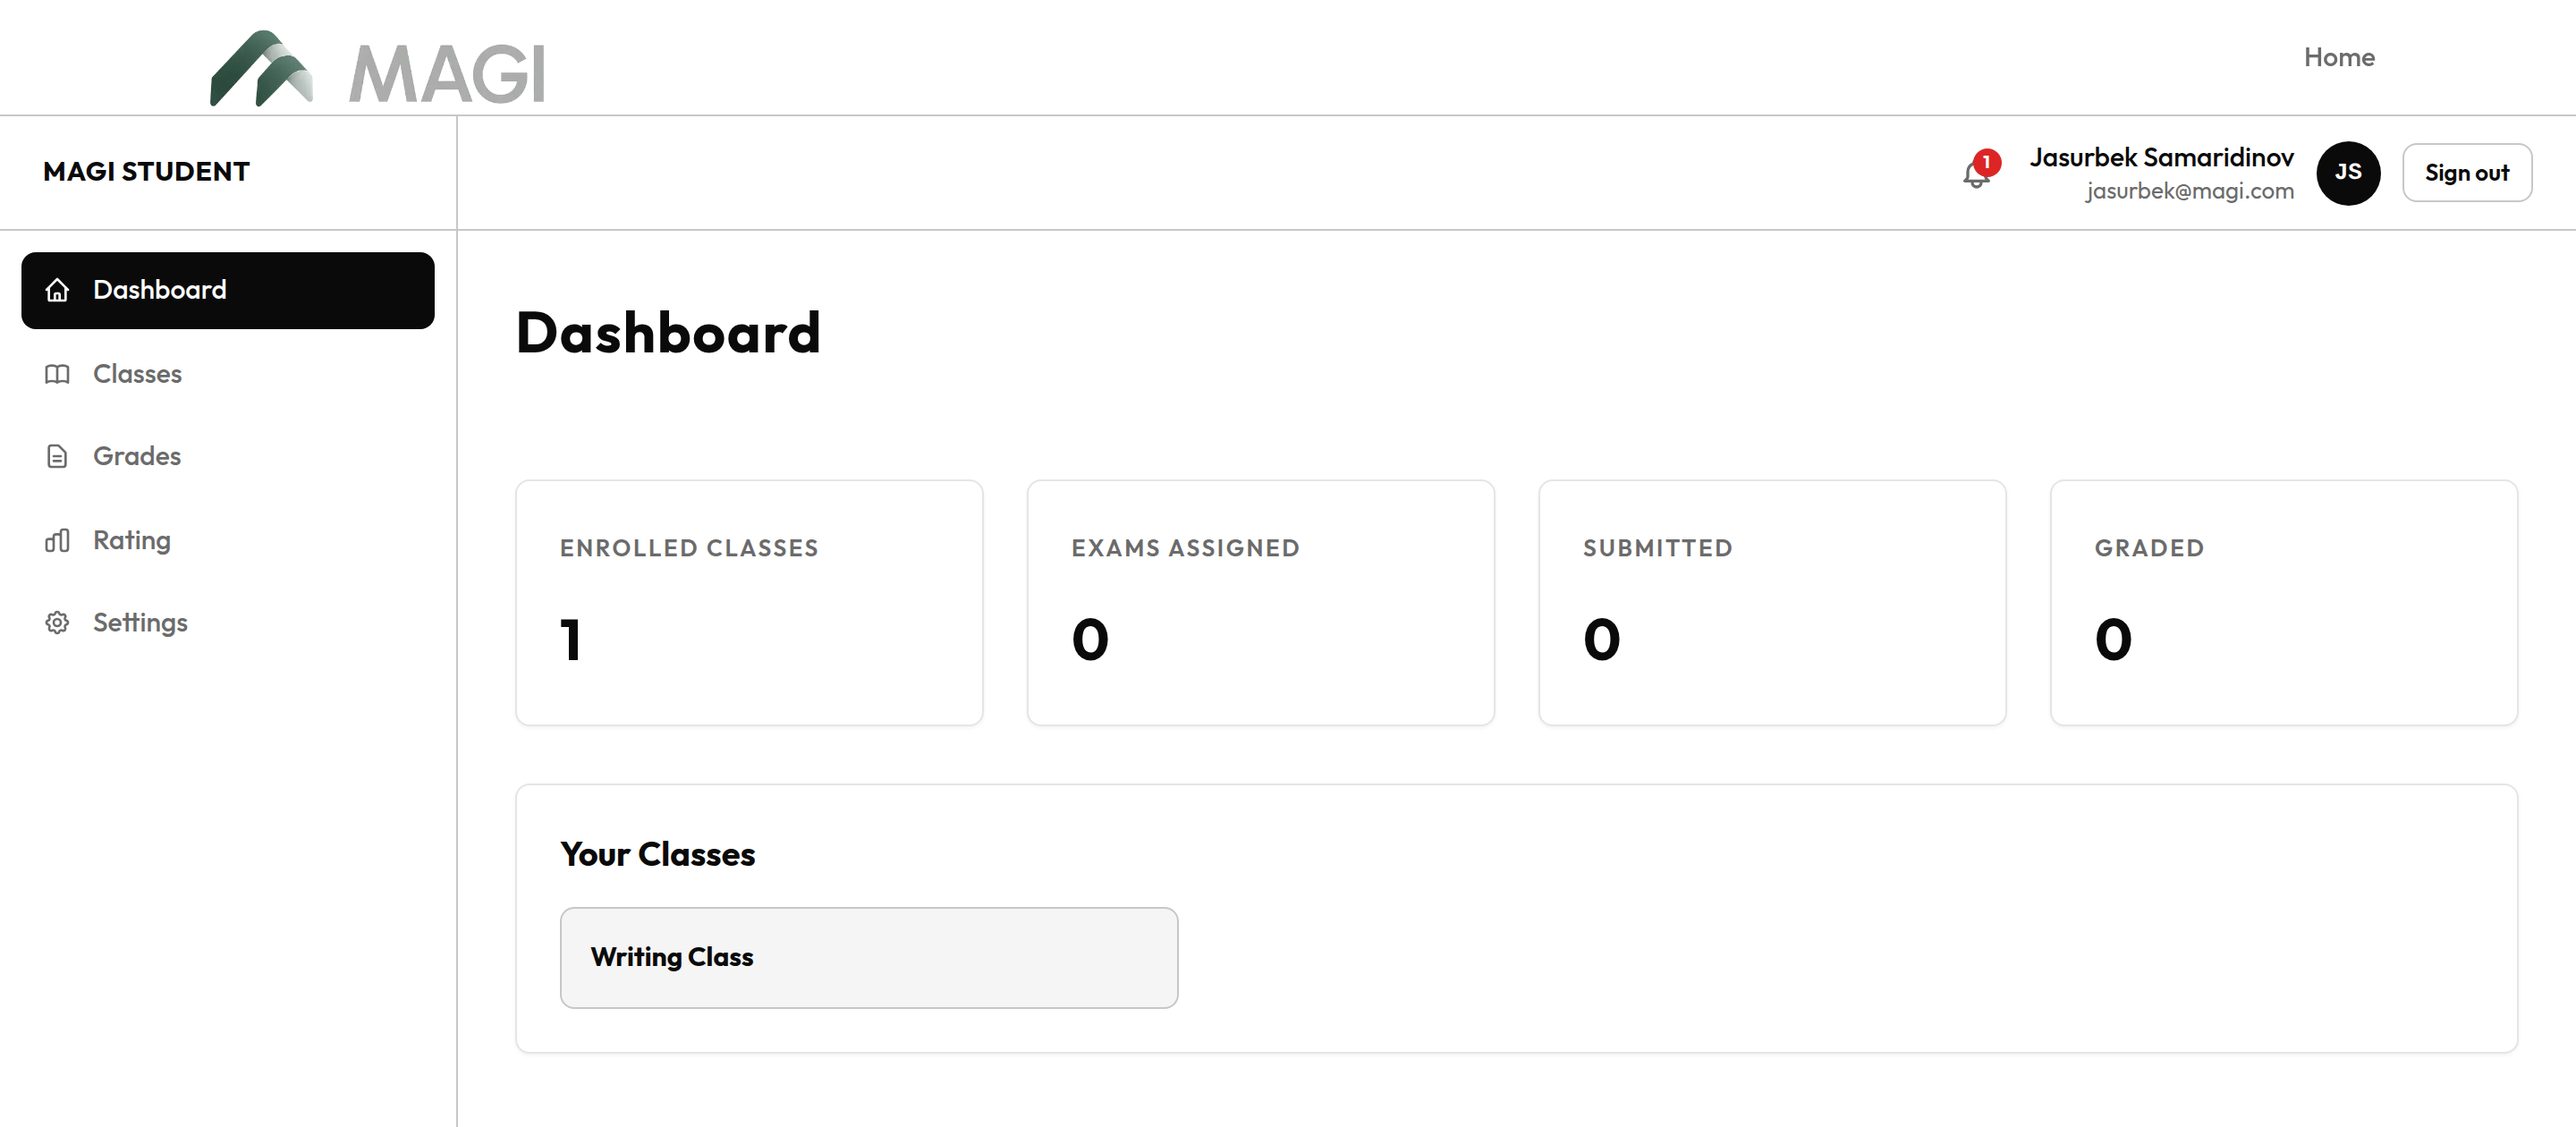
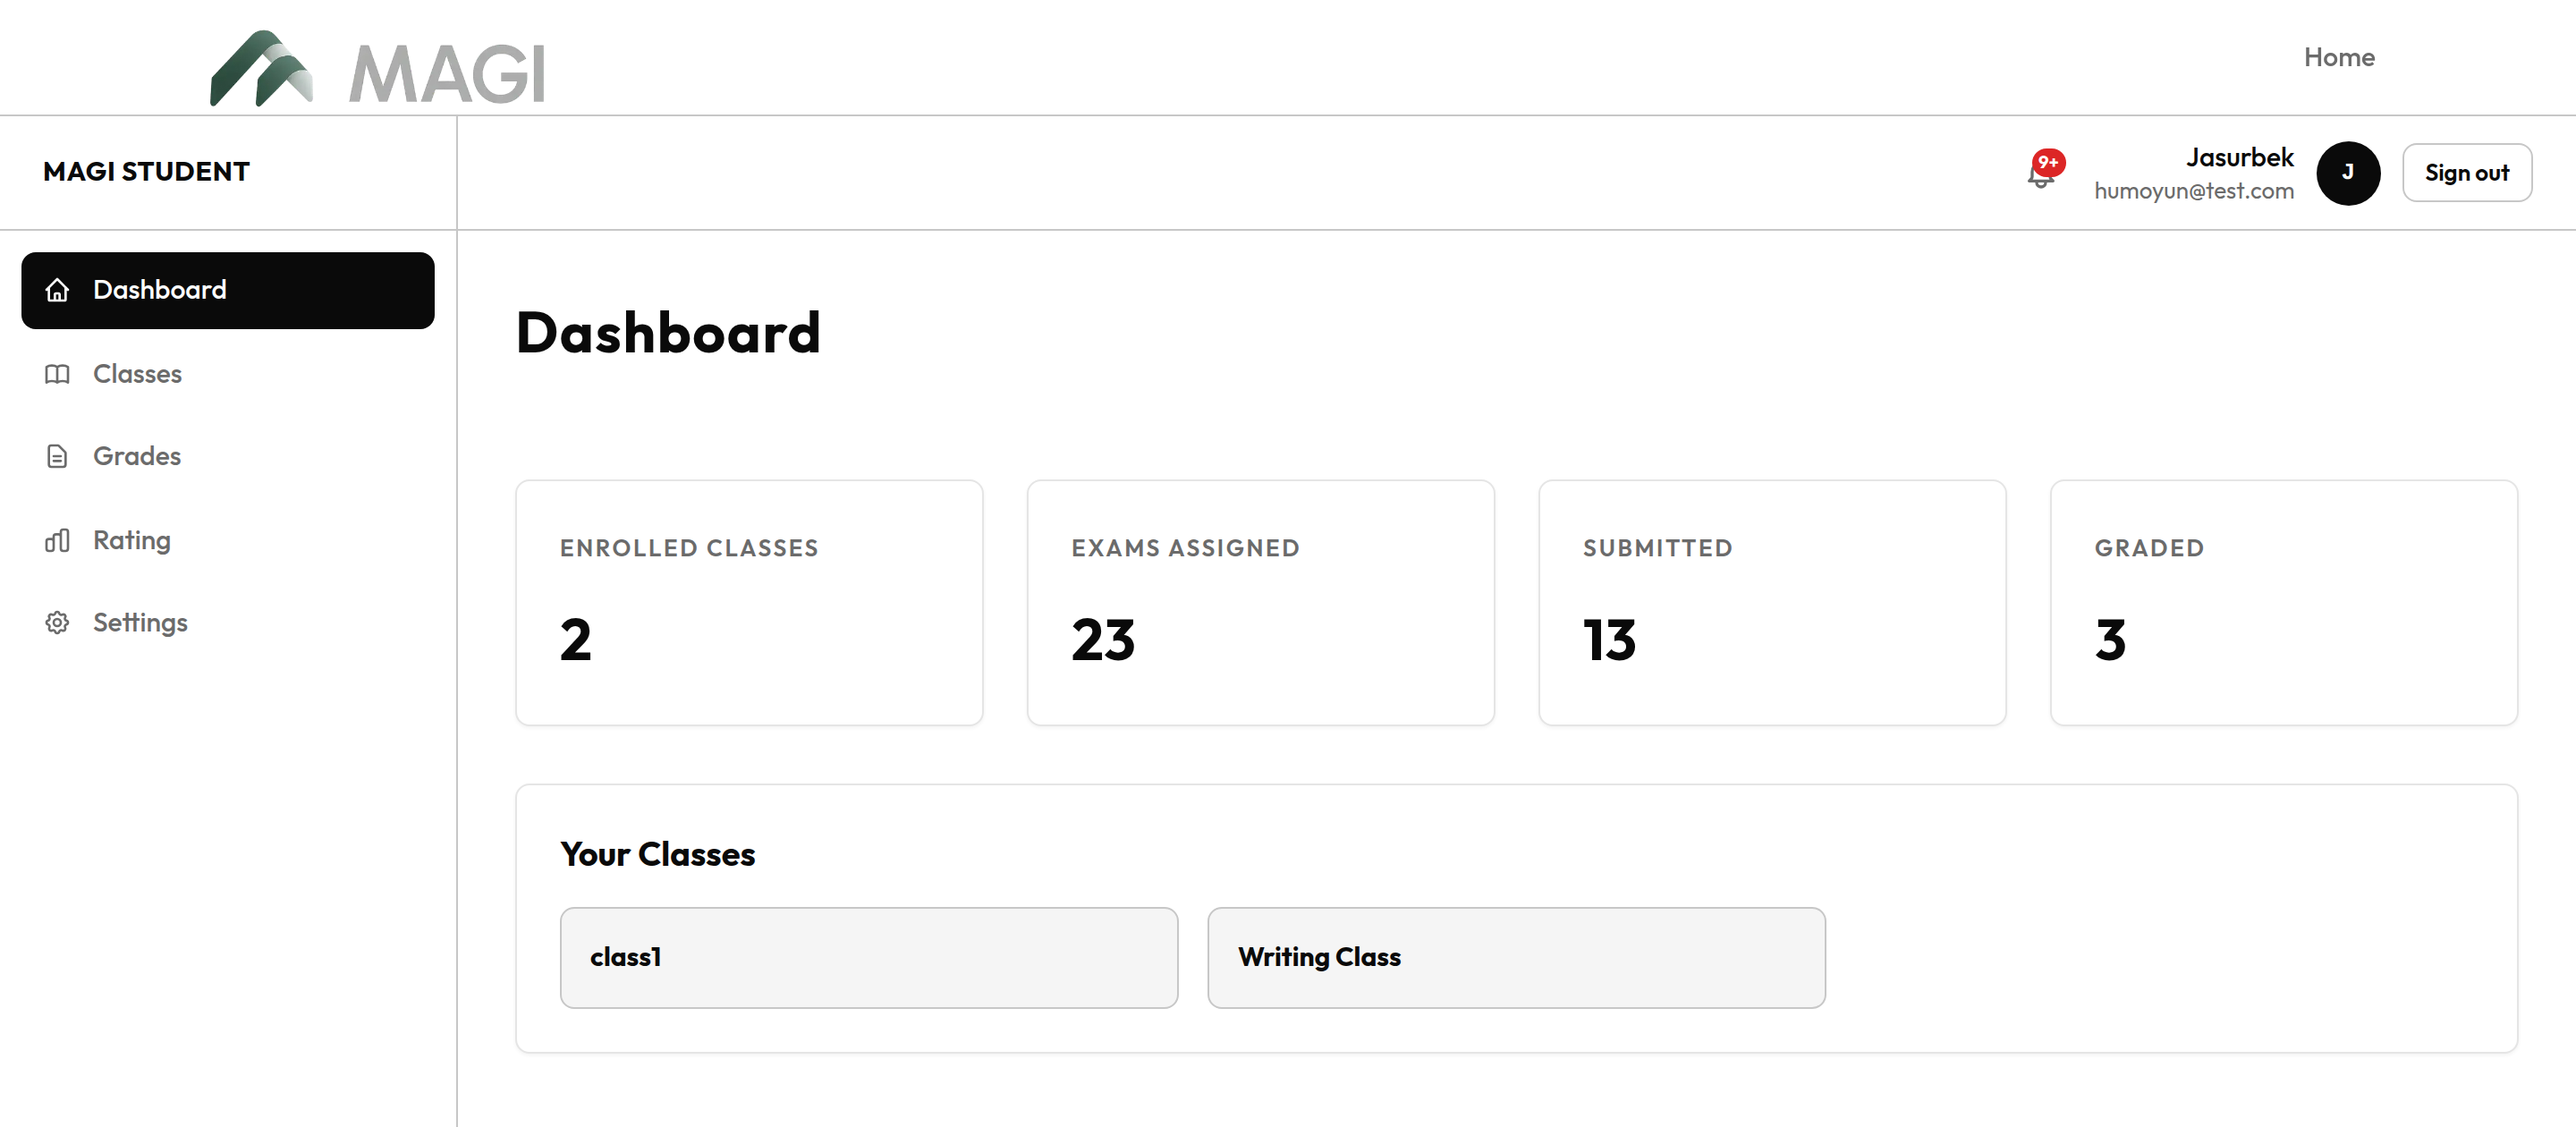
Drop the sign-in links and refresh screenshots with the new forensics panel
The landing page isn't a way into the apps, so the sign-in menu and the
footer's sign-in column are gone (the app download link stays). The
screenshots are retaken from production: the redesigned writing-forensics
panel, and the test student now named Jasurbek.

diff --git a/src/components/Nav.tsx b/src/components/Nav.tsx
@@ -1,5 +1,5 @@
-import { useEffect, useRef, useState } from "react";
-import { DIRECTOR, DOWNLOAD, STUDENT_PORTAL } from "../links";
+import { useState } from "react";
+import { DOWNLOAD } from "../links";
 
 const SECTIONS = [
   { href: "#desktop-app", label: "Anti-cheating" },
@@ -8,29 +8,8 @@ const SECTIONS = [
   { href: "#institutions", label: "For institutions" },
 ];
 
-const SIGN_IN = [
-  { href: `${STUDENT_PORTAL}/login`, label: "Student portal", note: "Exams, grades, the desktop app" },
-  { href: `${DIRECTOR}/login`, label: "MAGI Director", note: "For professors and staff" },
-];
-
 export function Nav() {
-  const [signInOpen, setSignInOpen] = useState(false);
   const [menuOpen, setMenuOpen] = useState(false);
-  const signInRef = useRef<HTMLDivElement>(null);
-
-  useEffect(() => {
-    if (!signInOpen) return;
-    const close = (e: MouseEvent) => {
-      if (!signInRef.current?.contains(e.target as Node)) setSignInOpen(false);
-    };
-    const onKey = (e: KeyboardEvent) => e.key === "Escape" && setSignInOpen(false);
-    document.addEventListener("mousedown", close);
-    document.addEventListener("keydown", onKey);
-    return () => {
-      document.removeEventListener("mousedown", close);
-      document.removeEventListener("keydown", onKey);
-    };
-  }, [signInOpen]);
 
   return (
     <header className="sticky top-0 z-50 bg-magi-white border-b border-magi-border">
@@ -46,29 +25,6 @@ export function Nav() {
           ))}
         </nav>
         <div className="flex items-center gap-3 sm:gap-4 shrink-0">
-          <div ref={signInRef} className="relative hidden sm:block">
-            <button
-              type="button"
-              onClick={() => setSignInOpen((o) => !o)}
-              aria-expanded={signInOpen}
-              className="flex items-center gap-1 text-sm text-magi-secondary hover:text-magi-primary transition-colors"
-            >
-              Sign in
-              <svg className={`w-3.5 h-3.5 transition-transform ${signInOpen ? "rotate-180" : ""}`} fill="none" stroke="currentColor" strokeWidth="2" viewBox="0 0 24 24">
-                <path strokeLinecap="round" strokeLinejoin="round" d="M6 9l6 6 6-6" />
-              </svg>
-            </button>
-            {signInOpen && (
-              <div className="absolute right-0 mt-3 w-64 glass-card p-1.5 shadow-lg">
-                {SIGN_IN.map((s) => (
-                  <a key={s.href} href={s.href} className="block px-3 py-2.5 rounded-md hover:bg-magi-surface transition-colors">
-                    <span className="block text-sm font-semibold text-magi-primary">{s.label}</span>
-                    <span className="block text-xs text-magi-secondary">{s.note}</span>
-                  </a>
-                ))}
-              </div>
-            )}
-          </div>
           <a
             href="#demo"
             className="px-3 sm:px-4 py-2 rounded-lg bg-magi-primary text-white text-sm font-semibold transition-all hover:bg-magi-hover whitespace-nowrap"
@@ -105,13 +61,7 @@ export function Nav() {
               {s.label}
             </a>
           ))}
-          <p className="pt-4 pb-1 text-xs font-semibold uppercase tracking-[0.2em] text-magi-secondary">Sign in</p>
-          {SIGN_IN.map((s) => (
-            <a key={s.href} href={s.href} className="block py-2.5 text-base text-magi-primary">
-              {s.label}
-            </a>
-          ))}
-          <a href={DOWNLOAD} className="block py-2.5 text-base text-magi-primary">
+          <a href={DOWNLOAD} className="block py-3 text-base text-magi-primary">
             Download the app
           </a>
         </div>

diff --git a/src/components/Footer.tsx b/src/components/Footer.tsx
@@ -1,4 +1,4 @@
-import { DIRECTOR, DOWNLOAD, STUDENT_PORTAL } from "../links";
+import { DOWNLOAD } from "../links";
 
 const COLUMNS = [
   {
@@ -7,13 +7,6 @@ const COLUMNS = [
       { href: "#desktop-app", label: "Anti-cheating" },
       { href: "#inside", label: "Inside MAGI" },
       { href: "#how-it-works", label: "How it works" },
-    ],
-  },
-  {
-    title: "Sign in",
-    links: [
-      { href: `${STUDENT_PORTAL}/login`, label: "Student portal" },
-      { href: `${DIRECTOR}/login`, label: "MAGI Director" },
       { href: DOWNLOAD, label: "Download the app" },
     ],
   },
@@ -29,7 +22,7 @@ const COLUMNS = [
 export function Footer() {
   return (
     <footer className="border-t border-magi-border">
-      <div className="max-w-6xl mx-auto px-6 py-12 grid grid-cols-2 sm:grid-cols-4 gap-8">
+      <div className="max-w-6xl mx-auto px-6 py-12 grid grid-cols-2 sm:grid-cols-3 gap-8">
         <div className="col-span-2 sm:col-span-1">
           <span className="font-outfit font-extrabold text-lg tracking-tight">MAGI</span>
           <p className="mt-2 text-xs text-magi-secondary font-light leading-relaxed max-w-[14rem]">

diff --git a/src/components/Screens.tsx b/src/components/Screens.tsx
@@ -29,15 +29,15 @@ const SHOTS: Shot[] = [
   {
     src: "/screens/admin-forensics.png",
     width: 2240,
-    height: 982,
+    height: 2194,
     app: "MAGI Director · Writing forensics",
     eyebrow: "How the answer was written",
     title: "Not just what the answer says - how it got there.",
     body: "Every answer comes with the trail of how it was typed. A real answer has corrections, pauses and a rhythm; a pasted or dictated one doesn't.",
     points: [
-      "Characters typed versus pasted, corrections and freezes",
-      "A process-strength score built from volume, rhythm and edit rate",
-      "An AI-probability estimate for the text itself",
+      "Volume, rhythm and editing scored separately, each with a verdict",
+      "Raw counts: typed versus pasted, paste ratio, corrections, freezes",
+      "Total session time against active typing time, plus an AI-probability estimate",
     ],
   },
   {

diff --git a/src/links.ts b/src/links.ts
@@ -1,5 +1,4 @@
 export const STUDENT_PORTAL = "https://magi-frontend-tau.vercel.app";
-export const DIRECTOR = "https://magi-admin.vercel.app";
 export const DOWNLOAD = `${STUDENT_PORTAL}/download`;
 
 // where demo requests go - replace with the real inbox before publishing
